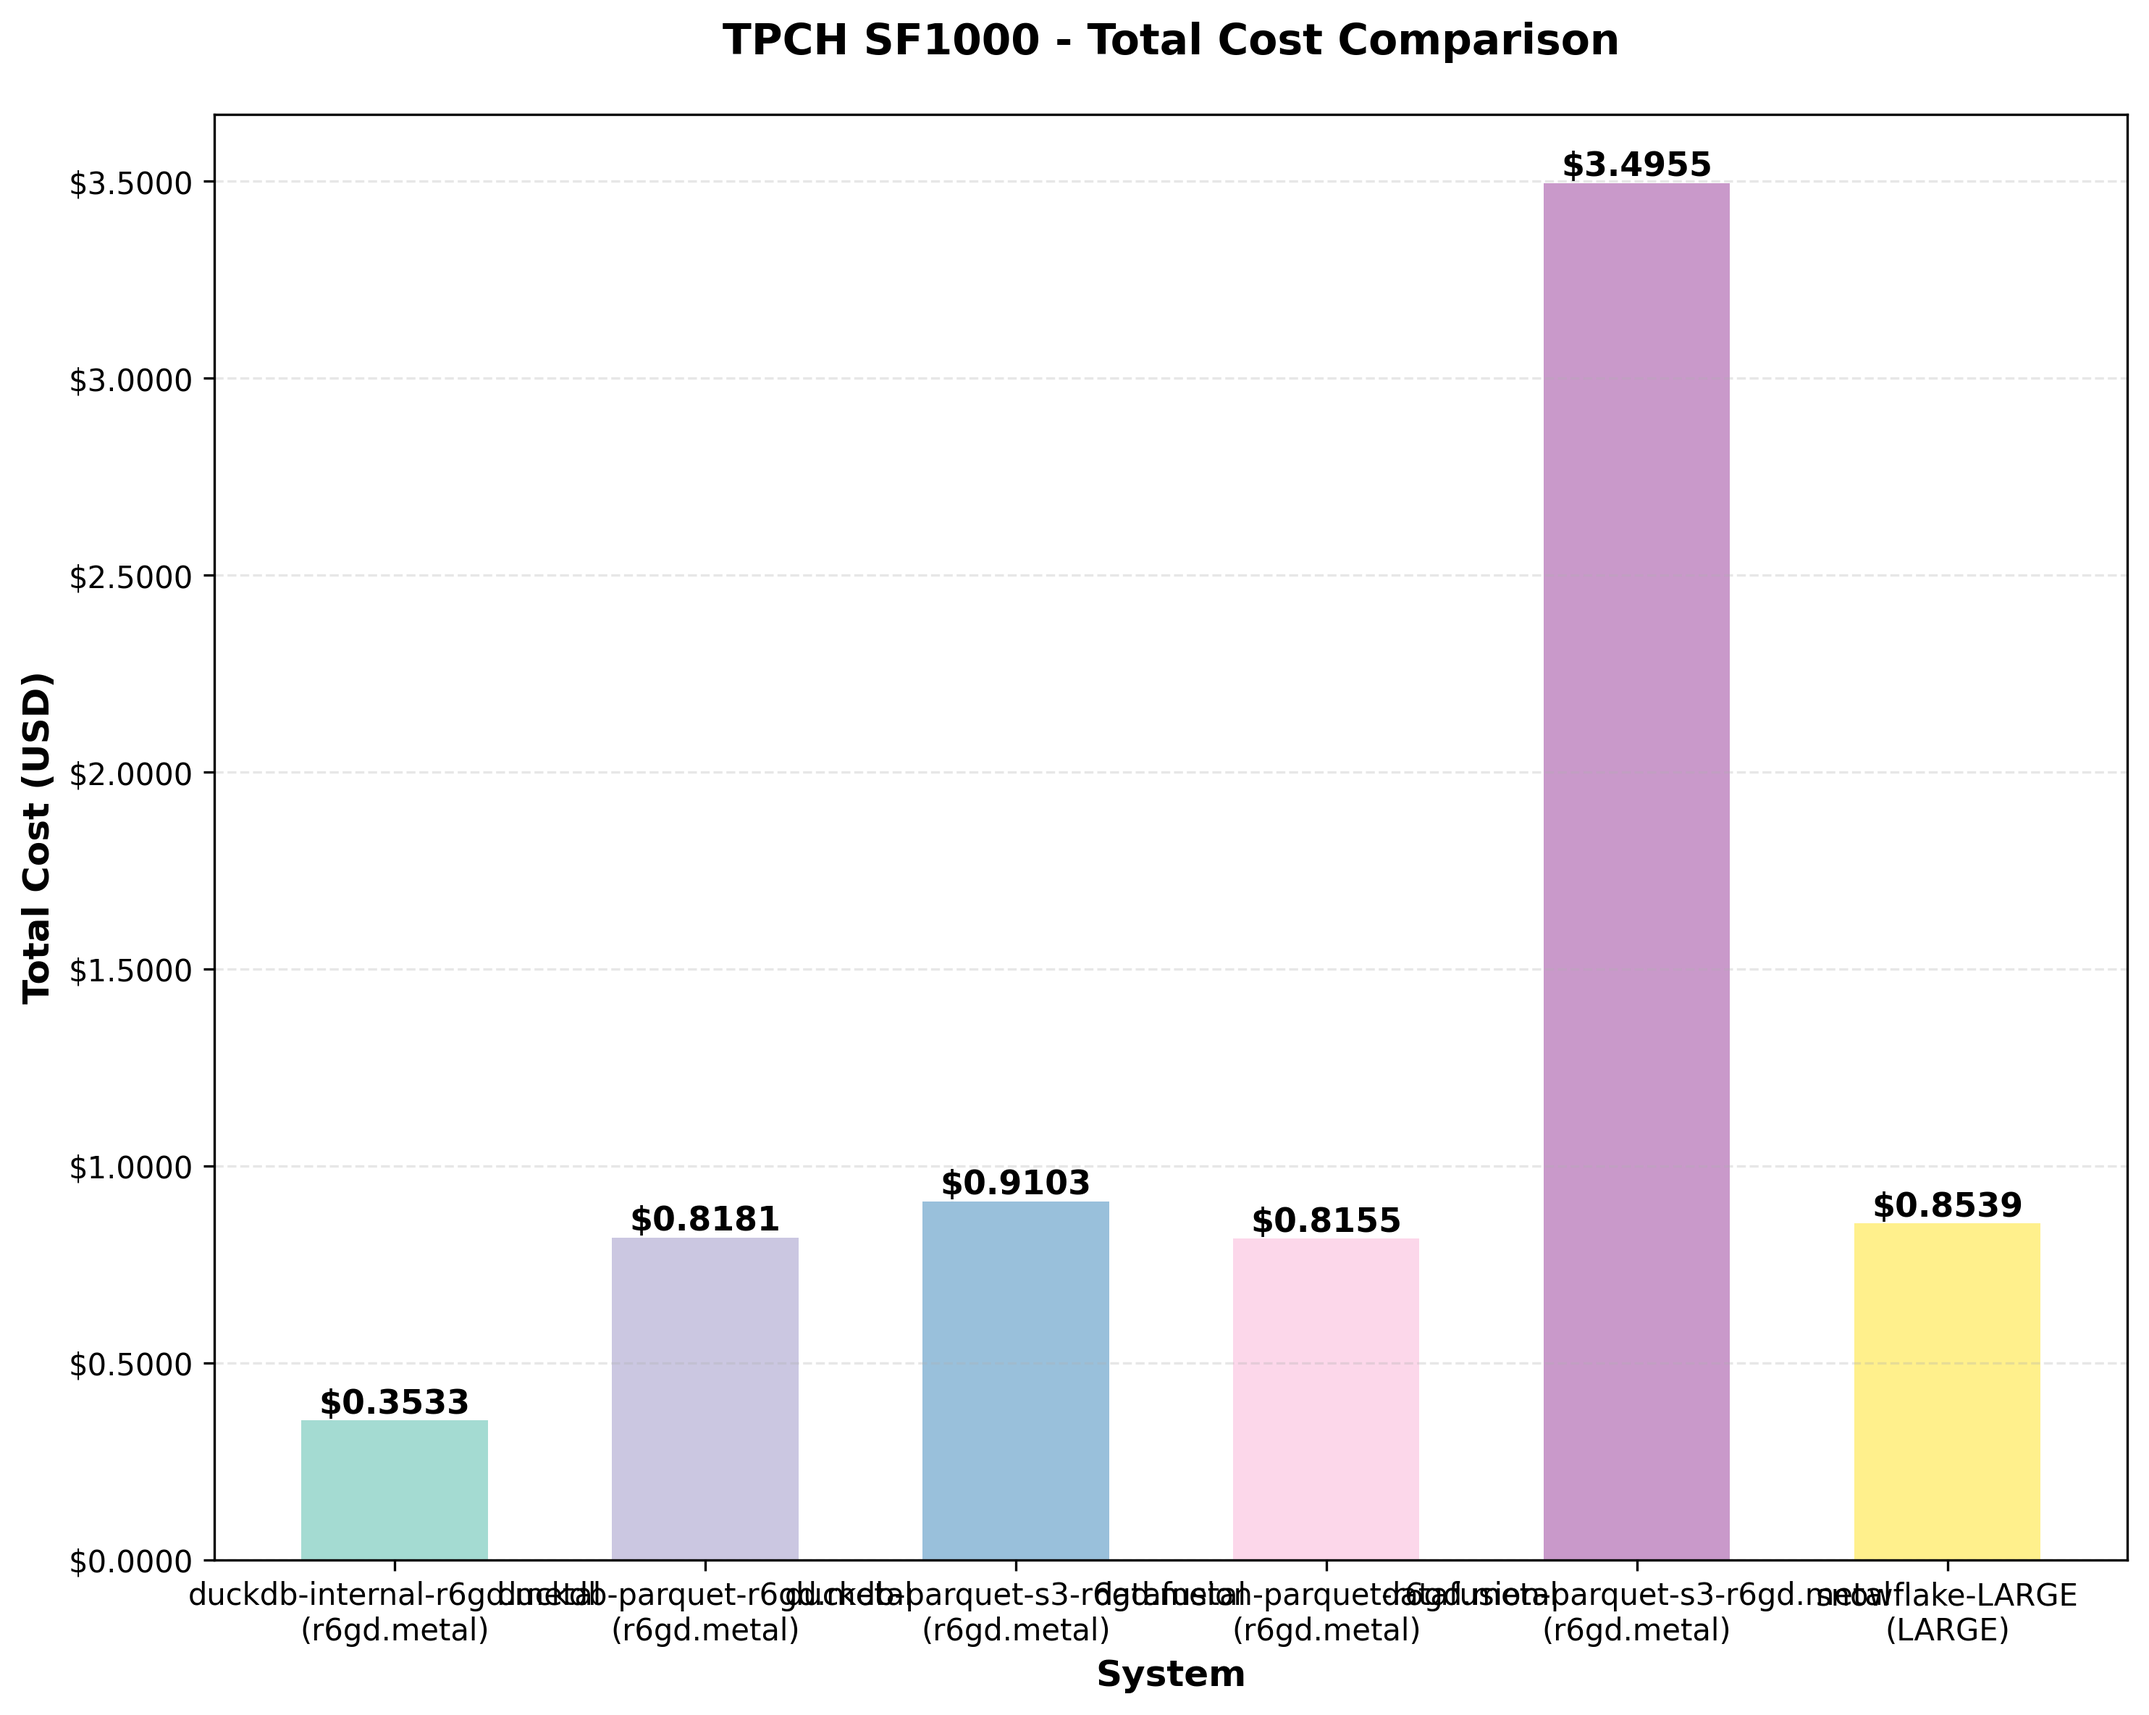
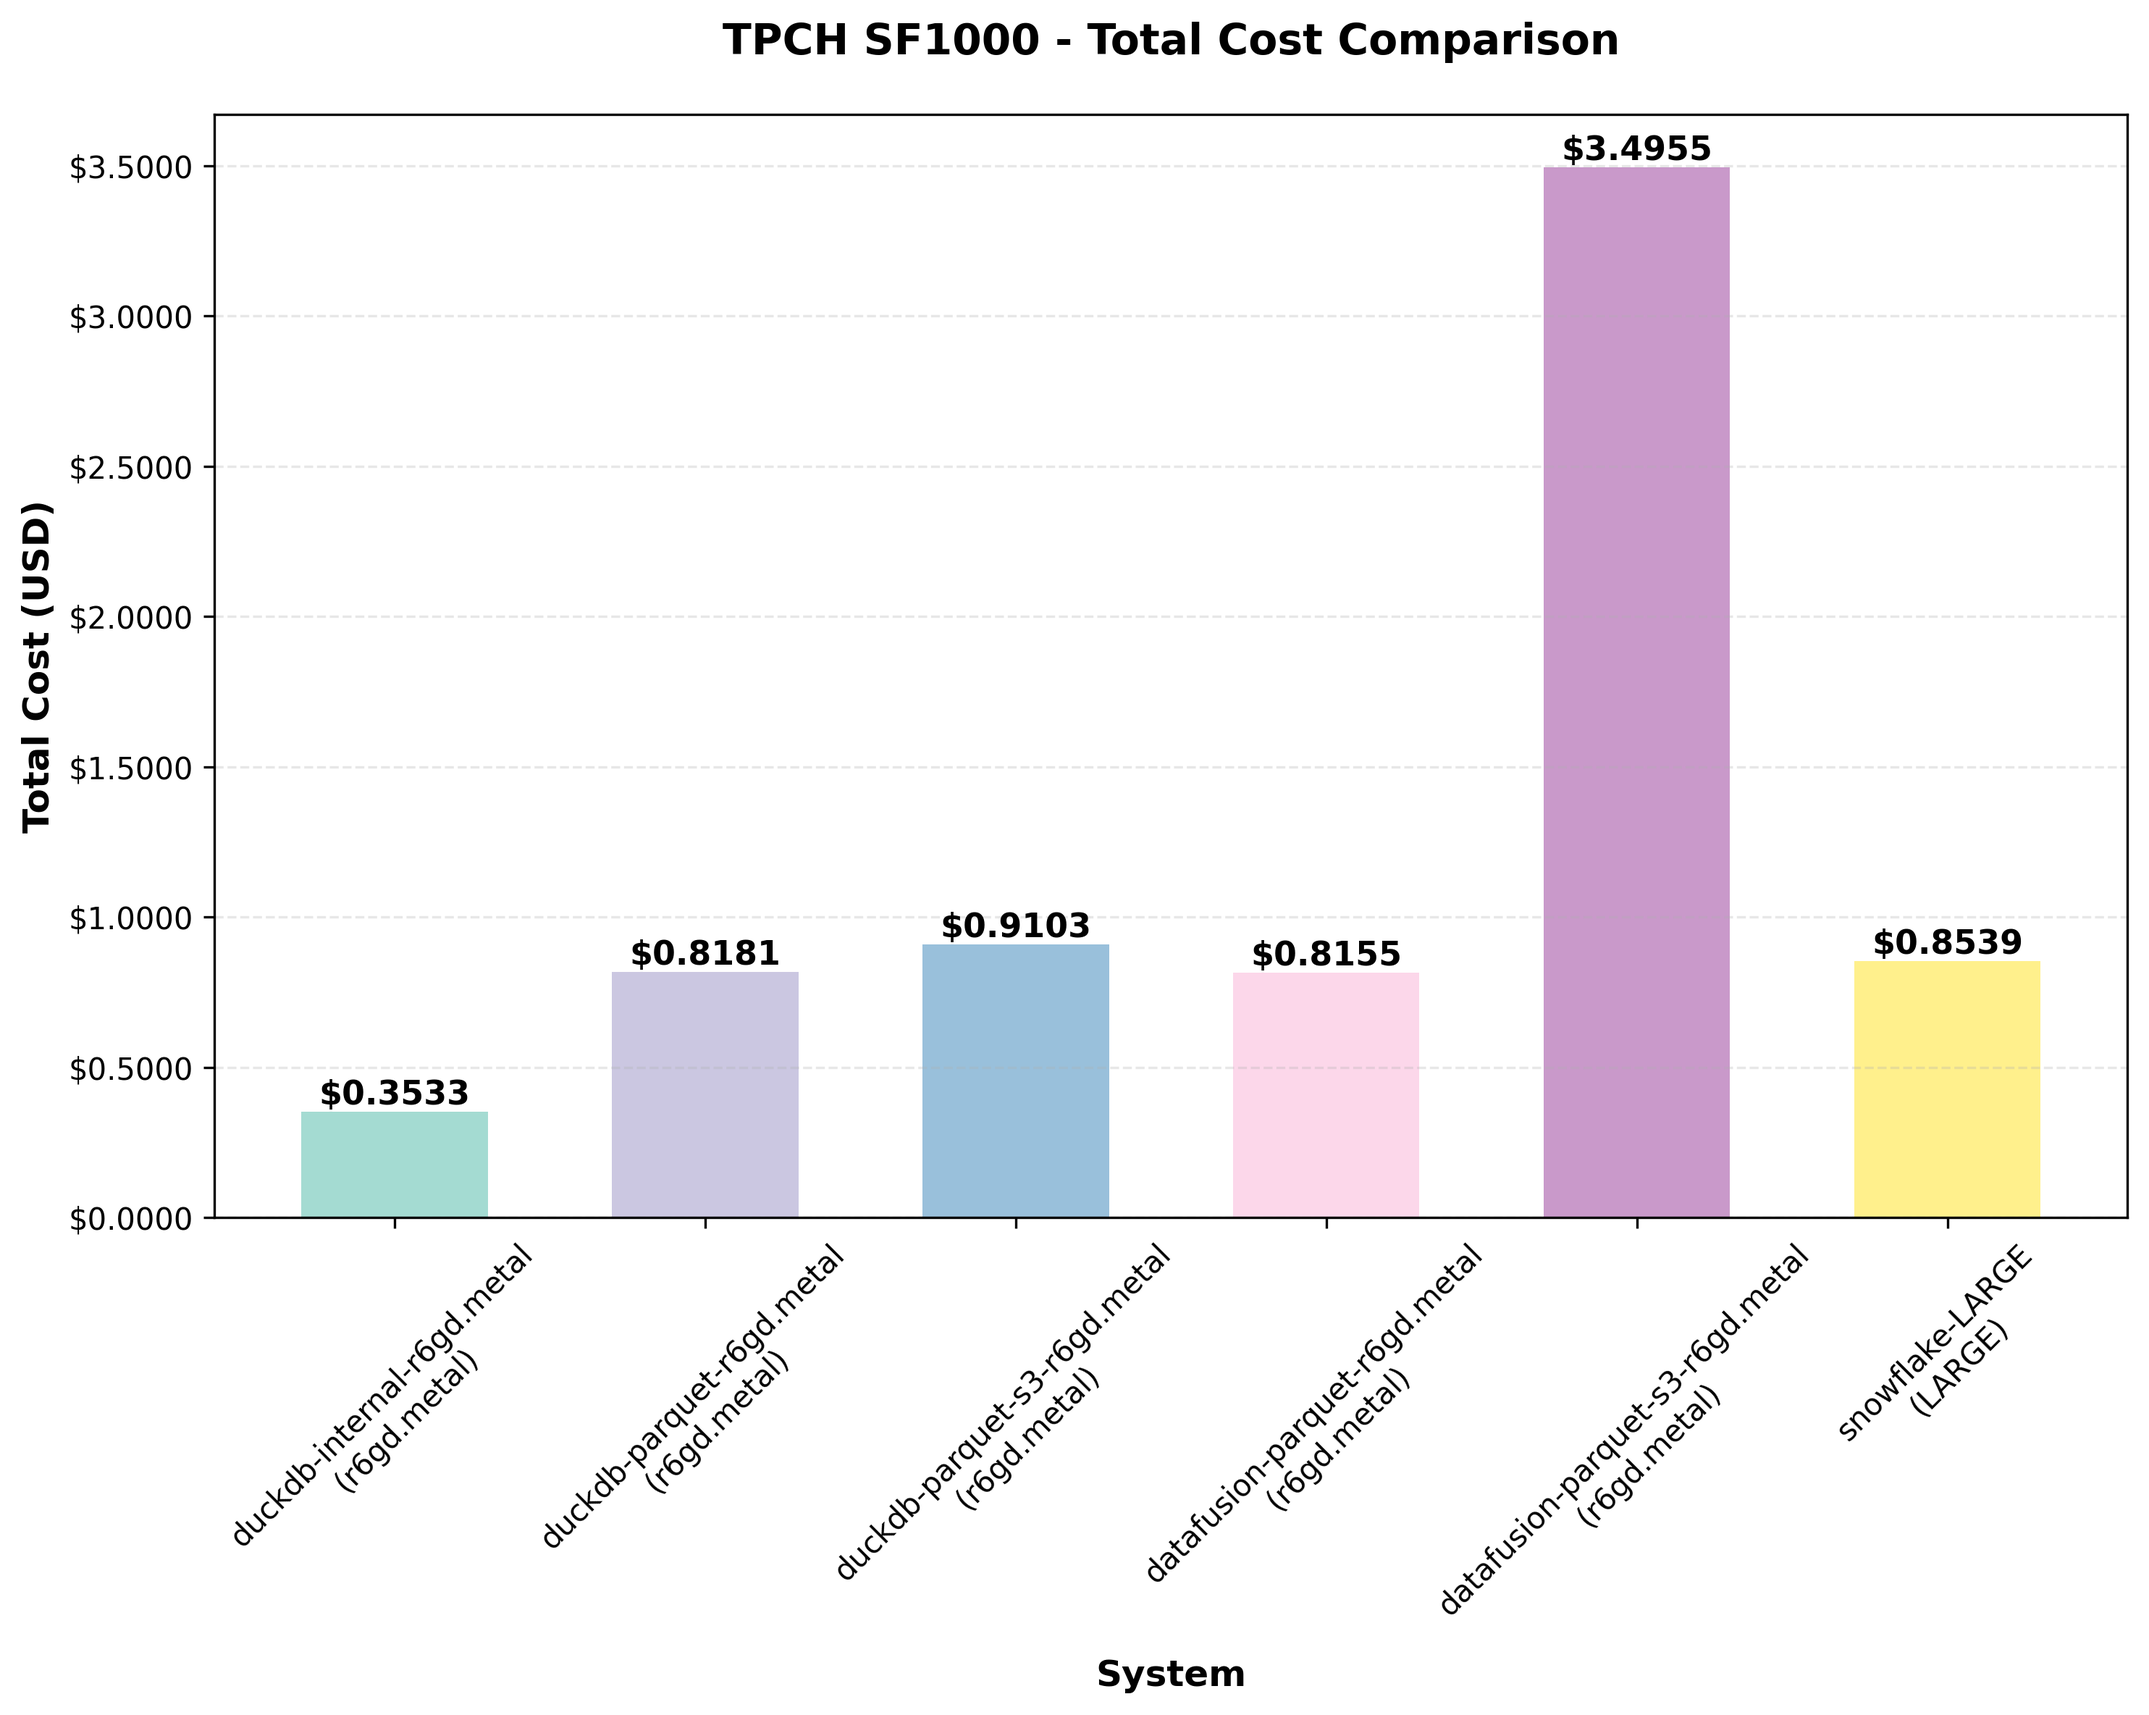
Rotate x-axis labels for better readability and update default scale factor to 1000 in benchmark visualizations.

diff --git a/visualize_benchmarks.py b/visualize_benchmarks.py
@@ -282,7 +282,7 @@ def create_total_bar_chart(data: Dict[str, Dict], title: str, ylabel: str,
     ax.set_ylabel(ylabel, fontsize=12, fontweight='bold')
     ax.set_title(title, fontsize=14, fontweight='bold', pad=20)
     ax.set_xticks(x)
-    ax.set_xticklabels(labels, fontsize=10)
+    ax.set_xticklabels(labels, fontsize=10, rotation=45)
     ax.grid(axis='y', alpha=0.3, linestyle='--')
     
     # Format y-axis
@@ -375,7 +375,7 @@ if __name__ == '__main__':
     # Parse command line arguments
     parser = argparse.ArgumentParser(description='Generate benchmark visualizations')
     parser.add_argument('--benchmark', default='tpch', help='Benchmark name (e.g., tpch)')
-    parser.add_argument('--scale-factor', type=int, default=10, help='Scale factor (e.g., 10 for sf10)')
+    parser.add_argument('--scale-factor', type=int, default=1000, help='Scale factor (e.g., 1000 for sf1000)')
     parser.add_argument('--output-dir', default='visualizations', help='Output directory for charts')
     parser.add_argument('--base-dir', default='.',
                         help='Base directory where benchmark results are stored')
